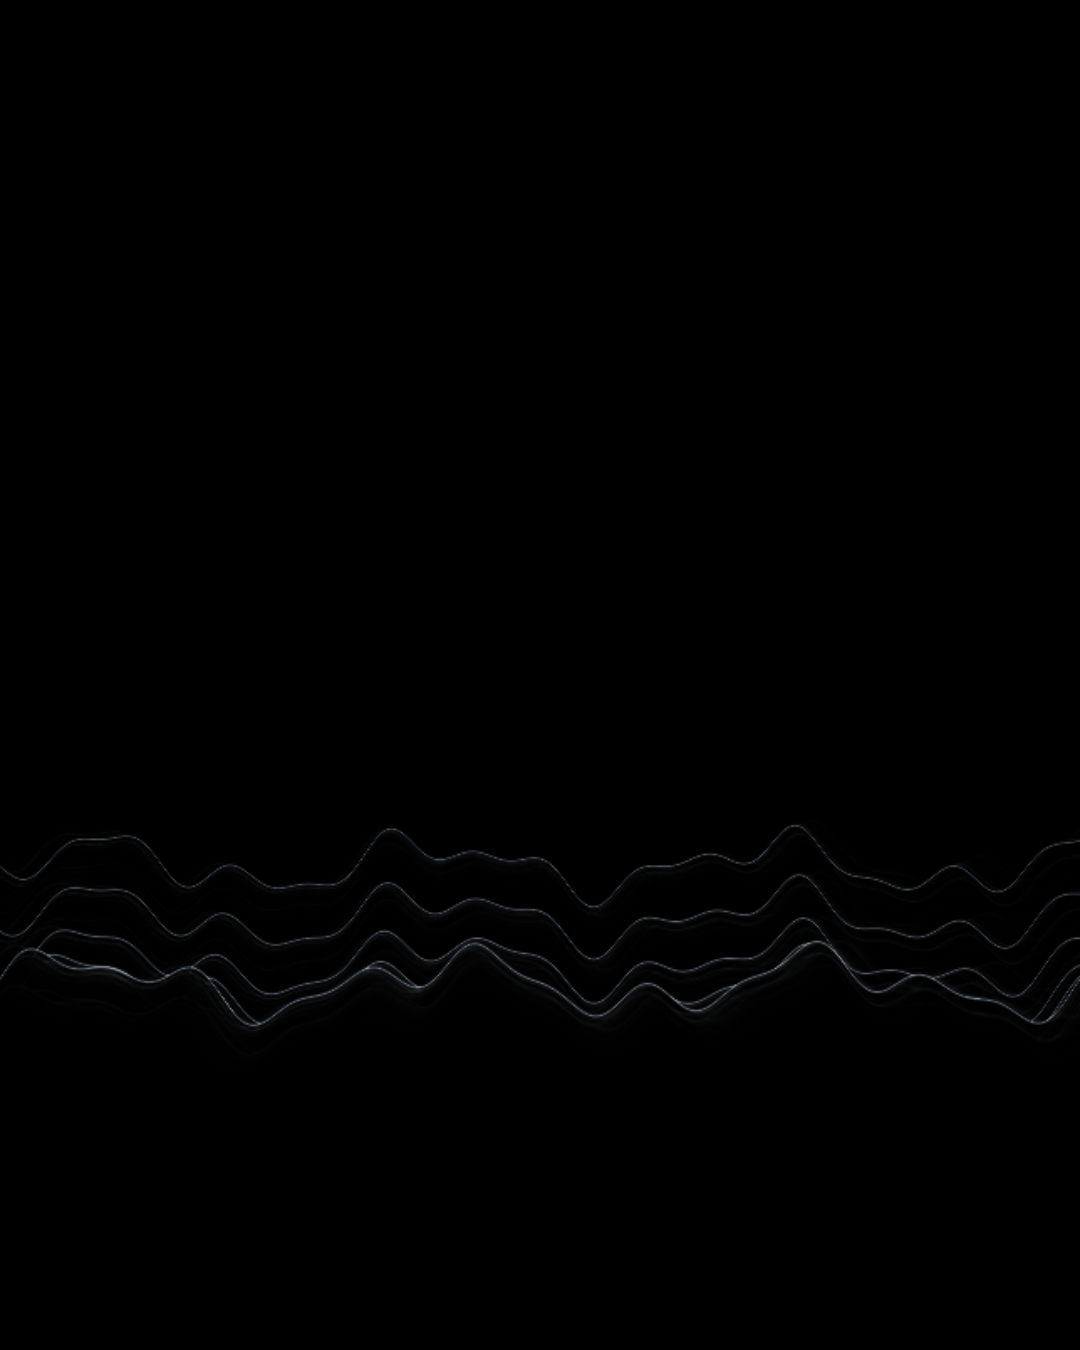
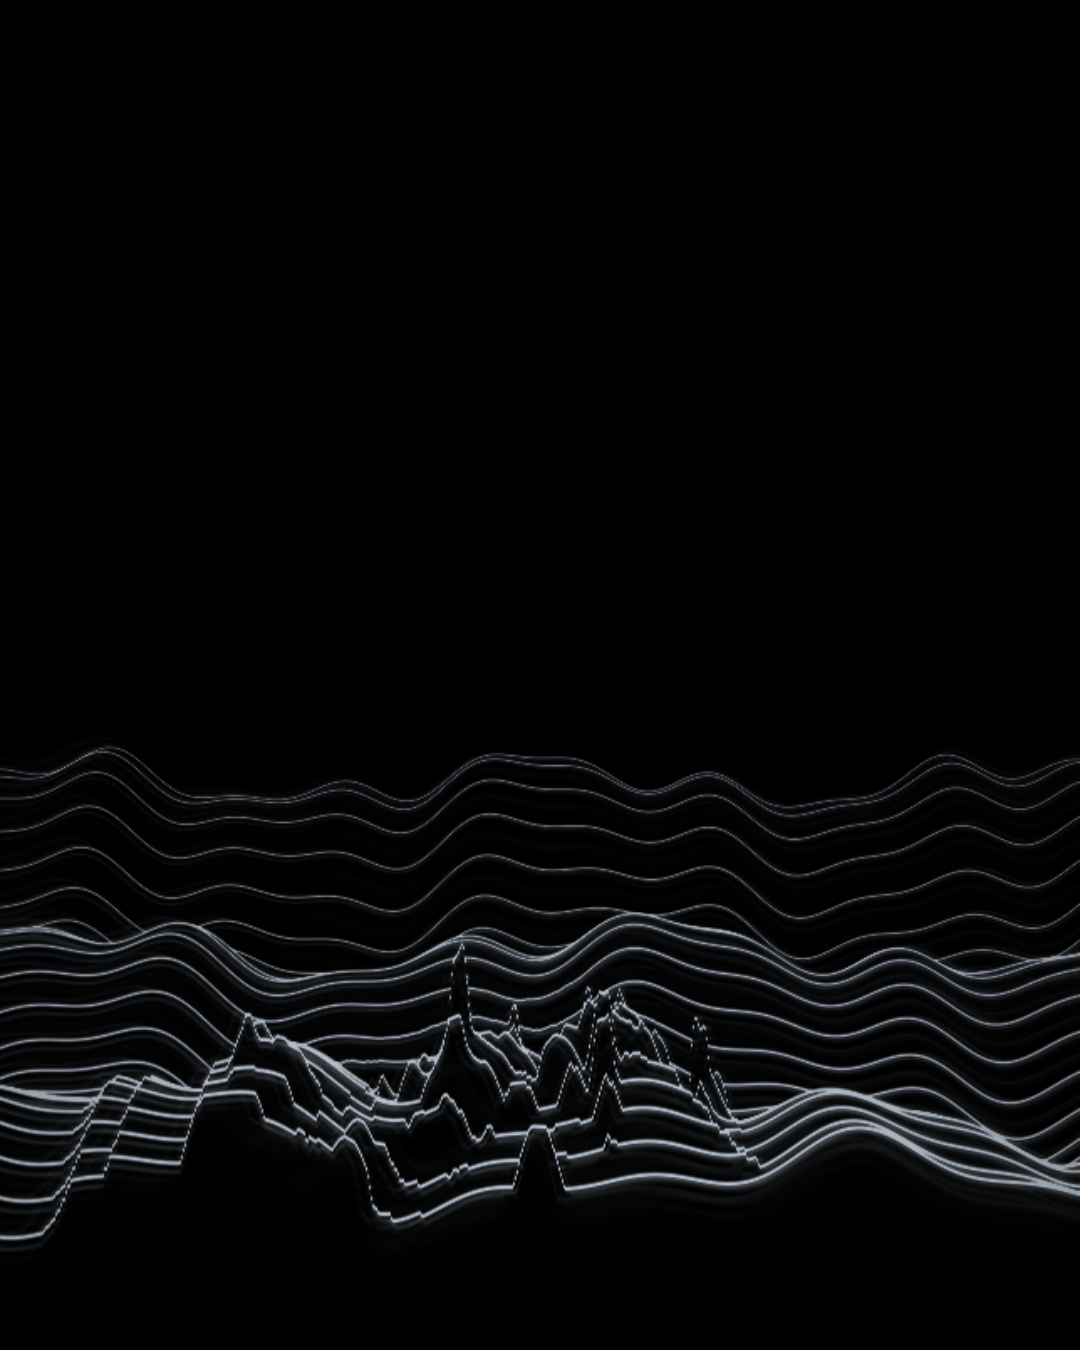
build: radio1965 iPhone tap, cards

diff --git a/workers/view/public/radio1965/index.html b/workers/view/public/radio1965/index.html
@@ -8,7 +8,7 @@
 <meta property="og:title" content="Radio1965">
 <meta property="og:description" content="Sound archives processed, mixed and visualized by positron.audio.">
 <meta property="og:url" content="https://positron.studio/radio1965/">
-<meta property="og:image" content="https://positron.studio/og/radio1965-63e3d2b2.png">
+<meta property="og:image" content="https://positron.studio/og/radio1965-54df5a83.png">
 <meta property="og:image:width" content="1200">
 <meta property="og:image:height" content="630">
 <meta property="og:image:type" content="image/png">
@@ -208,17 +208,58 @@
       const src = ctx.createMediaElementSource(audio);
       analyser = ctx.createAnalyser(); analyser.fftSize = 2048; analyser.smoothingTimeConstant = 0.5;
       src.connect(analyser); src.connect(ctx.destination);
+      // an analyser nothing pulls reads silence: a silent pull keeps it running
+      const pull = ctx.createGain(); pull.gain.value = 0; analyser.connect(pull).connect(ctx.destination);
       feats = createFeatures(analyser, ctx.sampleRate);
       follow = Object.fromEntries(FOLLOWER_NAMES.map((n) => [n, createEnvFollower(MOD_FOLLOWERS[n])]));
     }
     audio.src = `${CAST}/listen/${STATION}?t=${Date.now()}`;
+    zeros = 0; lastT = -1;
     try { await audio.play(); } catch (e) { d.log(`the stream did not start: ${e.message}`, 'warn'); return; }
     playing = true; face();
     try { lock = await navigator.wakeLock?.request('screen'); } catch { /* no wake lock here */ }
     d.log('listening to our radio1965 stream');
   }
+  // iPhone Safari hands a live stream's analyser zeros (WebKit 180696). Then the picture hears a second copy of our
+  // own stream, cut at MP3 frames, decoded and played silently into the analyser. why: lessons/page-radio1965.md#ios-tap
+  let zeros = 0, lastT = -1, tap = null;
+  const probe = new Float32Array(2048);
+  setInterval(() => {
+    if (!playing || tap || !analyser) return;
+    analyser.getFloatTimeDomainData(probe);
+    let pk = 0; for (const v of probe) pk = Math.max(pk, Math.abs(v));
+    const moved = audio.currentTime > lastT; lastT = audio.currentTime;
+    zeros = pk === 0 && moved ? zeros + 1 : 0;
+    if (zeros >= 8) startTap(audio.src);
+  }, 250);
+  function startTap(url) {
+    const ac = new AbortController();
+    tap = { ac, next: 0 };
+    d.log('the picture hears a second copy of the stream: this browser gives the player\'s analyser no sound');
+    const frameAt = (b, i) => b[i] === 0xff && (b[i + 1] & 0xe0) === 0xe0 && ((b[i + 2] >> 4) & 15) !== 0 && ((b[i + 2] >> 4) & 15) !== 15 && ((b[i + 2] >> 2) & 3) !== 3;
+    (async () => {
+      const rd = (await fetch(url, { signal: ac.signal, cache: 'no-store' })).body.getReader();
+      let pending = new Uint8Array(0);
+      for (;;) {
+        const { value, done } = await rd.read(); if (done) break;
+        const n = new Uint8Array(pending.length + value.length); n.set(pending); n.set(value, pending.length); pending = n;
+        if (pending.length < 8192) continue;
+        let cut = pending.length - 4; while (cut > 0 && !frameAt(pending, cut)) cut--;
+        let from = 0; while (from < cut && !frameAt(pending, from)) from++;
+        if (cut <= from) continue;
+        const chunk = pending.slice(from, cut); pending = pending.slice(cut);
+        try {
+          const ab = await ctx.decodeAudioData(chunk.buffer);
+          const sn = ctx.createBufferSource(); sn.buffer = ab; sn.connect(analyser);
+          tap.next = Math.max(tap.next, ctx.currentTime + 0.05); sn.start(tap.next); tap.next += ab.duration;
+        } catch { /* a chunk that does not decode is skipped */ }
+      }
+    })().catch(() => { /* aborted on stop */ });
+  }
+
   function stop() {
     playing = false;
+    tap?.ac.abort(); tap = null;
     if (audio) { audio.pause(); audio.removeAttribute('src'); audio.load(); }
     lock?.release?.(); lock = null;
     target.ampL = OPEN.ampL;
